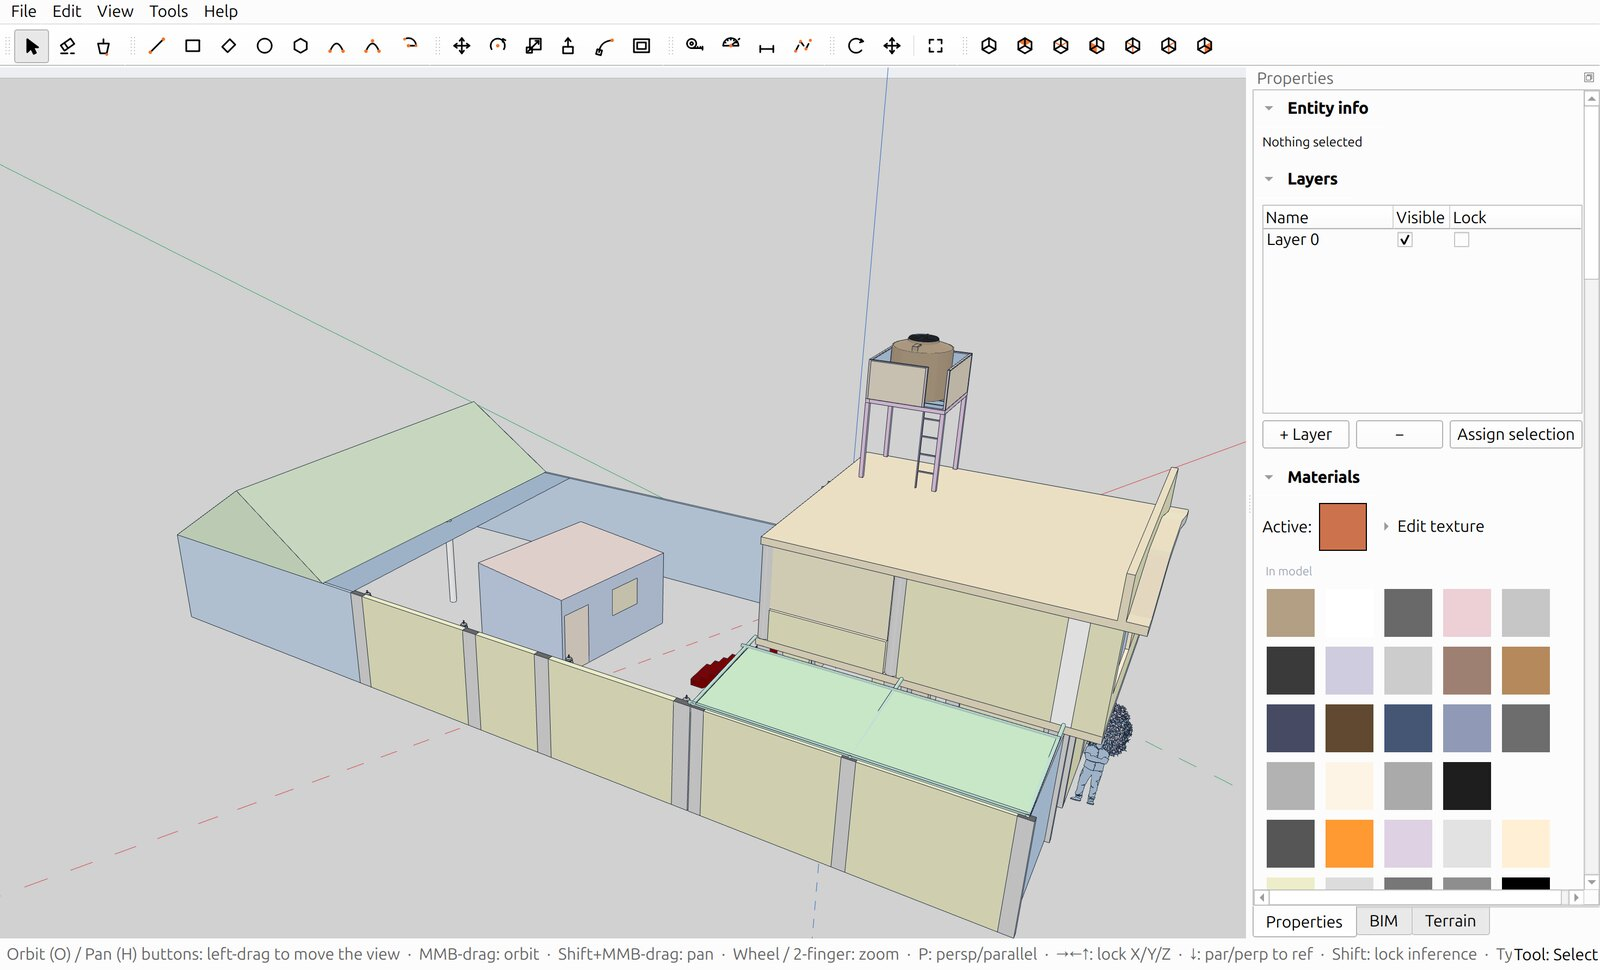
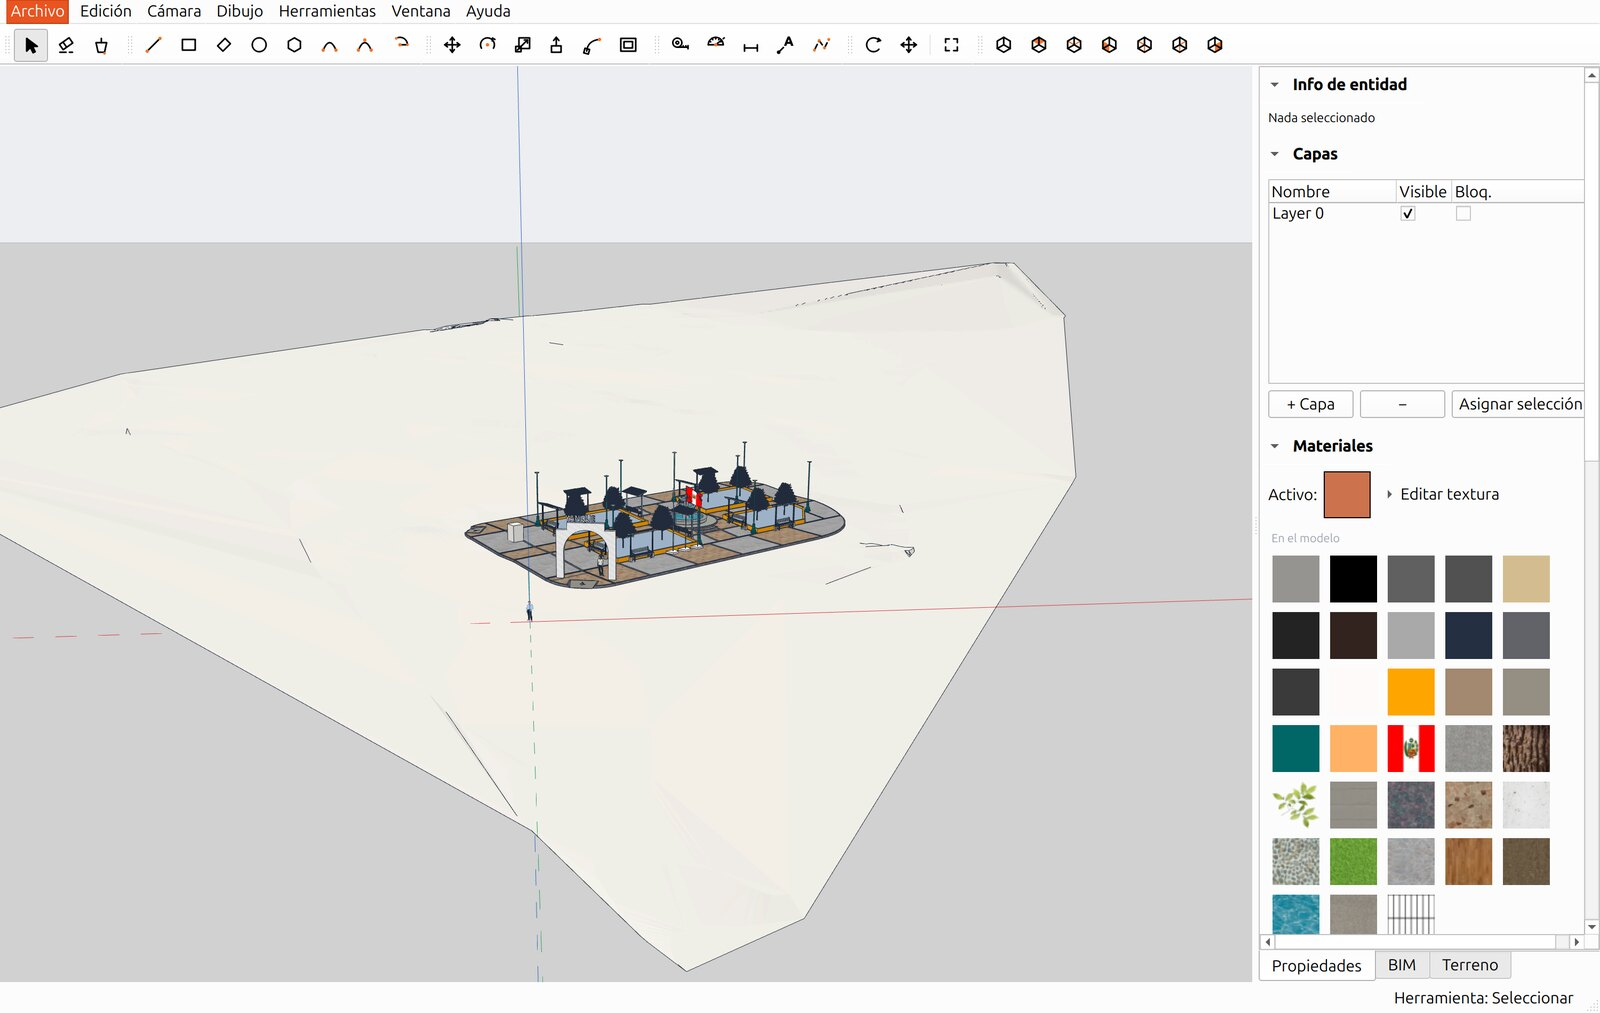
feat: skp2dae en la landing — .skp directo, descarga Windows, v0.2.0
- Sección SketchUp renombrada 'Abre tus archivos de SketchUp': importa
  .skp directo con instalación automática del conversor skp2dae en un
  clic; captura nueva = la plaza Yanque real abierta desde su .skp
  (texturas, bandera, panel de materiales poblado).
- FAQ actualizado (visible + espejo JSON-LD): abrir .skp y cómo instalar.
- Descargar: cards por SO — instalador y portable de Windows (URLs de
  assets resueltas en vivo desde la API de GitHub) + Linux desde código;
  nota de SmartScreen; versión 0.2.0.

diff --git a/index.html b/index.html
@@ -45,7 +45,7 @@
     "name": "IngeTrazo",
     "operatingSystem": "Linux, Windows, macOS",
     "applicationCategory": "DesignApplication",
-    "description": "Modelador 3D libre estilo SketchUp orientado a ingeniería civil y arquitectura, con BIM como capa opcional: etiqueta la geometría como muros, losas o columnas, obtén cantidades (metrado) y exporta IFC 4. Incluye terreno satelital 3D, perfiles longitudinales e importación de modelos SketchUp (.dae/.obj). Código abierto bajo GPL-3.0.",
+    "description": "Modelador 3D libre estilo SketchUp orientado a ingeniería civil y arquitectura, con BIM como capa opcional: etiqueta la geometría como muros, losas o columnas, obtén cantidades (metrado) y exporta IFC 4. Incluye terreno satelital 3D, perfiles longitudinales e importación de modelos SketchUp (.skp directo, .dae, .obj). Código abierto bajo GPL-3.0.",
     "url": "https://ingetrazo.com/",
     "image": "https://ingetrazo.com/images/logo.png",
     "author": {
@@ -90,7 +90,7 @@
         "name": "¿Puedo abrir mis modelos de SketchUp?",
         "acceptedAnswer": {
           "@type": "Answer",
-          "text": "Sí. Exporta desde SketchUp como COLLADA (.dae) u OBJ e impórtalo en IngeTrazo: llegan los grupos, componentes, materiales y texturas. Para que lleguen las texturas, copia el archivo junto con la carpeta de imágenes que genera SketchUp al exportar."
+          "text": "Sí, el .skp directamente: Archivo ▸ Importar ▸ SketchUp. La primera vez, IngeTrazo ofrece instalar el conversor skp2dae automáticamente con un clic — las texturas llegan porque viajan dentro del propio .skp. También importa COLLADA (.dae) y OBJ."
         }
       },
       {
@@ -111,10 +111,10 @@
       },
       {
         "@type": "Question",
-        "name": "¿Cómo lo instalo hoy?",
+        "name": "¿Cómo lo instalo?",
         "acceptedAnswer": {
           "@type": "Answer",
-          "text": "IngeTrazo está en versión 0.1: por ahora se instala desde el código fuente (clonar el repositorio de GitHub, instalar PySide6 y ejecutar main.py — 3 comandos). Los instaladores con doble clic para Linux y Windows llegan con las próximas versiones."
+          "text": "En Windows: descarga el instalador de ingetrazo.com o de los releases de GitHub, doble clic y listo. En Linux: por ahora desde el código fuente (3 comandos); el AppImage viene en camino."
         }
       },
       {
@@ -244,18 +244,19 @@
     <section class="feat feat-alt reveal">
       <div class="container feat-row feat-reverse">
         <div class="feat-text">
-          <h2>Trae tus modelos de SketchUp</h2>
-          <p>Tu biblioteca de años no se queda atrás: exporta desde SketchUp y ábrelo en IngeTrazo con grupos, materiales y texturas.</p>
+          <h2>Abre tus archivos de SketchUp</h2>
+          <p>Tu biblioteca de años no se queda atrás: IngeTrazo abre el <code>.skp</code> directamente — con grupos, componentes, materiales y texturas.</p>
           <ul class="feat-list">
-            <li><strong>Importa COLLADA (.dae) y OBJ</strong> — también modelos de 3D Warehouse</li>
+            <li><strong>Importa SketchUp (.skp) directo</strong> — el conversor <a href="https://github.com/tuxiasumari/skp2dae" target="_blank" rel="noopener">skp2dae</a> se instala solo, con un clic</li>
+            <li><strong>También COLLADA (.dae) y OBJ</strong> — y las texturas viajan dentro del propio .skp</li>
             <li><strong>Grupos y componentes</strong> se conservan — mueve una farola sin arrastrar el resto</li>
-            <li><strong>Texturas e imágenes</strong> — hasta los personajes que miran a la cámara</li>
             <li><strong>Exporta STL</strong> para impresión 3D, <strong>OBJ</strong> e <strong>IFC</strong></li>
           </ul>
+          <p class="feat-muted">En la captura: una plaza real abierta desde su .skp — arco, bandera y empedrado con sus texturas.</p>
         </div>
         <figure class="feat-img">
           <img class="zoomable" src="images/screenshots/import-sketchup.jpeg"
-               alt="Proyecto de SketchUp importado con grupos y materiales" width="1600" height="970" loading="lazy">
+               alt="Plaza real abierta desde su archivo .skp, con texturas" width="1600" height="1013" loading="lazy">
         </figure>
       </div>
     </section>
@@ -285,10 +286,29 @@
   <section id="descargar" class="download-section">
     <div class="container">
       <h2>Consigue IngeTrazo</h2>
-      <p class="download-sub">Gratis y completo. Versión <span id="dl-version">0.1.0</span> — <span id="dl-date">julio 2026</span>.</p>
+      <p class="download-sub">Gratis y completo. Versión <span id="dl-version">0.2.0</span> — <span id="dl-date">julio 2026</span>.</p>
       <div class="dl-row">
         <div class="dl-group">
-          <span class="dl-group-label">Linux · Windows · macOS — desde el código fuente</span>
+          <span class="dl-group-label">Windows</span>
+          <div class="dl-group-cards">
+            <a class="dl-card dl-card-compact" id="dl-win-btn" href="https://github.com/tuxiasumari/ingetrazo/releases/latest" target="_blank" rel="noopener">
+              <svg width="26" height="26" viewBox="0 0 16 16" fill="currentColor" aria-hidden="true"><path d="M0 2.3 6.5 1.4v6.3H0V2.3zM7.3 1.3 16 0v7.7H7.3V1.3zM0 8.5h6.5v6.3L0 13.9V8.5zM7.3 8.5H16V16l-8.7-1.2V8.5z"/></svg>
+              <strong>Instalador (.exe)</strong>
+              <span>Windows 10/11 · 64 bits</span>
+            </a>
+            <a class="dl-card dl-card-compact" id="dl-win-zip" href="https://github.com/tuxiasumari/ingetrazo/releases/latest" target="_blank" rel="noopener">
+              <svg width="26" height="26" viewBox="0 0 16 16" fill="currentColor" aria-hidden="true"><path d="M4 0h5l4 4v11a1 1 0 0 1-1 1H4a1 1 0 0 1-1-1V1a1 1 0 0 1 1-1zm5 1v3h3L9 1z"/></svg>
+              <strong>Portable (.zip)</strong>
+              <span>sin instalación</span>
+            </a>
+          </div>
+          <p class="dl-group-alt" style="font-size:12px;color:rgba(255,255,255,0.75)">Si SmartScreen avisa: «Más información → Ejecutar de todas formas» (beta sin firma).</p>
+        </div>
+
+        <div class="dl-divider"></div>
+
+        <div class="dl-group">
+          <span class="dl-group-label">Linux — desde el código fuente (nativo)</span>
           <div class="dl-group-cards">
             <a class="dl-card dl-card-compact" href="https://github.com/tuxiasumari/ingetrazo" target="_blank" rel="noopener">
               <svg width="26" height="26" viewBox="0 0 16 16" fill="currentColor" aria-hidden="true"><path d="M8 0C3.58 0 0 3.58 0 8c0 3.54 2.29 6.53 5.47 7.59.4.07.55-.17.55-.38 0-.19-.01-.82-.01-1.49-2.01.37-2.53-.49-2.69-.94-.09-.23-.48-.94-.82-1.13-.28-.15-.68-.52-.01-.53.63-.01 1.08.58 1.23.82.72 1.21 1.87.87 2.33.66.07-.52.28-.87.51-1.07-1.78-.2-3.64-.89-3.64-3.95 0-.87.31-1.59.82-2.15-.08-.2-.36-1.02.08-2.12 0 0 .67-.21 2.2.82.64-.18 1.32-.27 2-.27s1.36.09 2 .27c1.53-1.04 2.2-.82 2.2-.82.44 1.1.16 1.92.08 2.12.51.56.82 1.27.82 2.15 0 3.07-1.87 3.75-3.65 3.95.29.25.54.73.54 1.48 0 1.07-.01 1.93-.01 2.2 0 .21.15.46.55.38A8.01 8.01 0 0 0 16 8c0-4.42-3.58-8-8-8z"/></svg>
@@ -302,7 +322,7 @@ python3 -m venv venv && venv/bin/pip install PySide6 numpy
 venv/bin/python main.py</code>
             <button class="dl-code-copy" type="button" data-copy="git clone https://github.com/tuxiasumari/ingetrazo && cd ingetrazo && python3 -m venv venv && venv/bin/pip install PySide6 numpy && venv/bin/python main.py">Copiar</button>
           </div>
-          <p class="dl-note">¿Prefieres doble clic? Los instaladores para Linux y Windows llegan con las próximas versiones — <a href="https://github.com/tuxiasumari/ingetrazo/releases" target="_blank" rel="noopener">sigue los releases</a>.</p>
+          <p class="dl-note">AppImage para Linux: en camino. Todos los archivos en los <a href="https://github.com/tuxiasumari/ingetrazo/releases" target="_blank" rel="noopener">releases de GitHub</a>.</p>
         </div>
       </div>
     </div>
@@ -326,7 +346,7 @@ venv/bin/python main.py</code>
         </details>
         <details class="faq-item">
           <summary>¿Puedo abrir mis modelos de SketchUp?</summary>
-          <p>Sí. Exporta desde SketchUp como <strong>COLLADA (.dae)</strong> u <strong>OBJ</strong> e impórtalo en IngeTrazo: llegan los grupos, componentes, materiales y texturas. Para que lleguen las texturas, copia el archivo junto con la carpeta de imágenes que genera SketchUp al exportar.</p>
+          <p>Sí, el <strong>.skp directamente</strong>: Archivo ▸ Importar ▸ SketchUp. La primera vez, IngeTrazo te ofrece instalar el conversor <strong>skp2dae</strong> automáticamente (un clic) — las texturas llegan porque viajan dentro del propio .skp. También importa <strong>COLLADA (.dae)</strong> y <strong>OBJ</strong> exportados desde SketchUp.</p>
         </details>
         <details class="faq-item">
           <summary>¿Qué es eso de BIM e IFC?</summary>
@@ -337,8 +357,8 @@ venv/bin/python main.py</code>
           <p>Sí, todo el modelador funciona <strong>offline</strong> y tus archivos viven en tu PC. Solo el mapa satelital y el terreno 3D descargan imágenes de internet mientras los usas.</p>
         </details>
         <details class="faq-item">
-          <summary>¿Cómo lo instalo hoy?</summary>
-          <p>IngeTrazo está en versión 0.1: por ahora se instala <strong>desde el código fuente</strong> — clonar el repositorio, instalar PySide6 y ejecutar <code>main.py</code> (los 3 comandos están en la sección Descargar). Los instaladores con doble clic llegan con las próximas versiones.</p>
+          <summary>¿Cómo lo instalo?</summary>
+          <p>En <strong>Windows</strong>: descarga el instalador de la sección Descargar, doble clic y listo (asocia los archivos .igz). En <strong>Linux</strong>: por ahora desde el código fuente — 3 comandos que están en la misma sección; el AppImage viene en camino.</p>
         </details>
         <details class="faq-item">
           <summary>¿Sirve para impresión 3D?</summary>

diff --git a/script.js b/script.js
@@ -19,6 +19,17 @@
         if (dd) dd.textContent = d.toLocaleDateString('es-PE',
           { year: 'numeric', month: 'long' });
       }
+      /* URLs exactas de los binarios Windows del release */
+      (rel.assets || []).forEach(function (a) {
+        if (/-setup-.*\.exe$/.test(a.name)) {
+          var btn = document.getElementById('dl-win-btn');
+          if (btn) btn.href = a.browser_download_url;
+        }
+        if (/-windows\.zip$/.test(a.name)) {
+          var zip = document.getElementById('dl-win-zip');
+          if (zip) zip.href = a.browser_download_url;
+        }
+      });
     })
     .catch(function () { /* fallback: valores estáticos del HTML */ });
 

diff --git a/style.css b/style.css
@@ -474,6 +474,9 @@ code {
 .dl-card span { font-size: 11px; color: var(--slate-300); }
 .dl-card-compact { padding: 16px 28px; min-width: 130px; }
 .dl-note { font-size: 13px; color: rgba(255,255,255,0.85); margin-top: 18px; }
+.dl-group-alt { font-size: 12px; color: rgba(255,255,255,0.7); }
+.dl-divider { height: 1px; width: 100%; max-width: 340px; background: rgba(255,255,255,0.18); margin: 22px auto 8px; }
+@media (max-width: 760px) { .dl-divider { display: none; } .dl-row { gap: 24px; } }
 .dl-note a { color: var(--white); text-decoration: underline; text-underline-offset: 3px; }
 
 /* Bloque copiable de instalación desde código */

diff --git a/CLAUDE.md b/CLAUDE.md
@@ -41,7 +41,9 @@ Todas REALES, generadas por script contra la app en GL
 - `bim.jpeg` — casita taggeada + panel BIM con metrados (script scratch
   `shot_bim.py`; los números del panel se verificaron correctos).
 - `terreno.jpeg` — terreno 3D del valle del Colca (Yanque) con Esri satelital.
-- `import-sketchup.jpeg` — "Proyecto vivero.dae" real importado (314 grupos).
+- `import-sketchup.jpeg` — **plaza Yanque real abierta desde su .skp** (vía el
+  conversor skp2dae bajo Wine): arco, bandera del Perú y empedrado con
+  texturas, panel de materiales poblado. (Antes: vivero.dae con colores.)
 
 OG banner: `.cover-build/og.html` + Chromium headless (snap: solo escribe
 dentro de $HOME) → `images/og-banner.jpg`.
@@ -49,8 +51,11 @@ dentro de $HOME) → `images/og-banner.jpg`.
 ## Decisiones (no revertir sin discutir)
 
 - Sin frameworks, sin trackers, sin cookies banner.
-- Descarga: hoy apunta a GitHub (código fuente + 3 comandos); cuando existan
-  binarios (v0.2+), convertir a cards por SO como el hermano.
+- Descarga: cards por SO — Windows (instalador + zip; script.js resuelve las
+  URLs exactas de los assets del release vía la API de GitHub) y Linux desde
+  el código. AppImage pendiente.
+- Sección SketchUp: `.skp` directo con instalador de un clic del conversor
+  skp2dae (FAQ + JSON-LD espejados).
 - **No publicar sin aprobación de Marco** — iterar local con
   `python3 -m http.server 8765`.
 